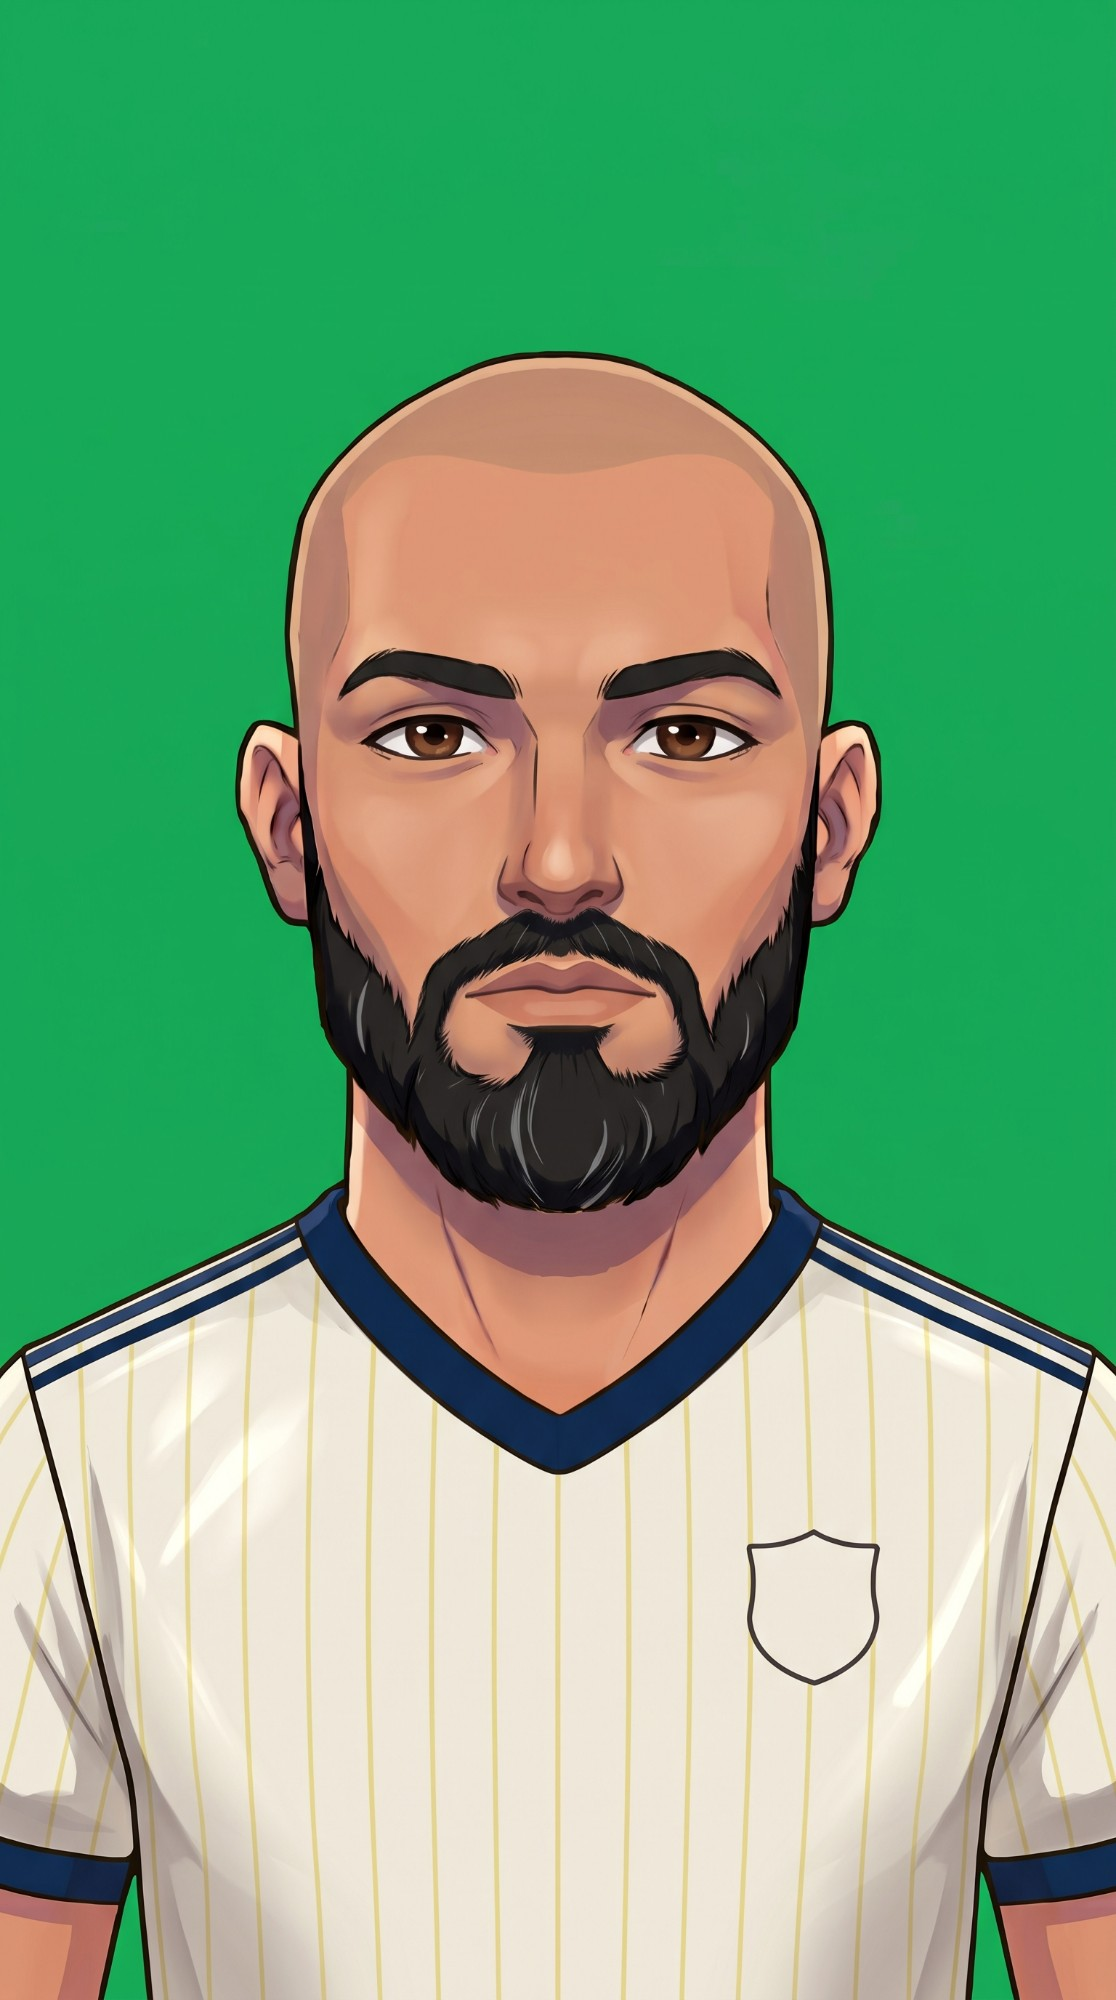
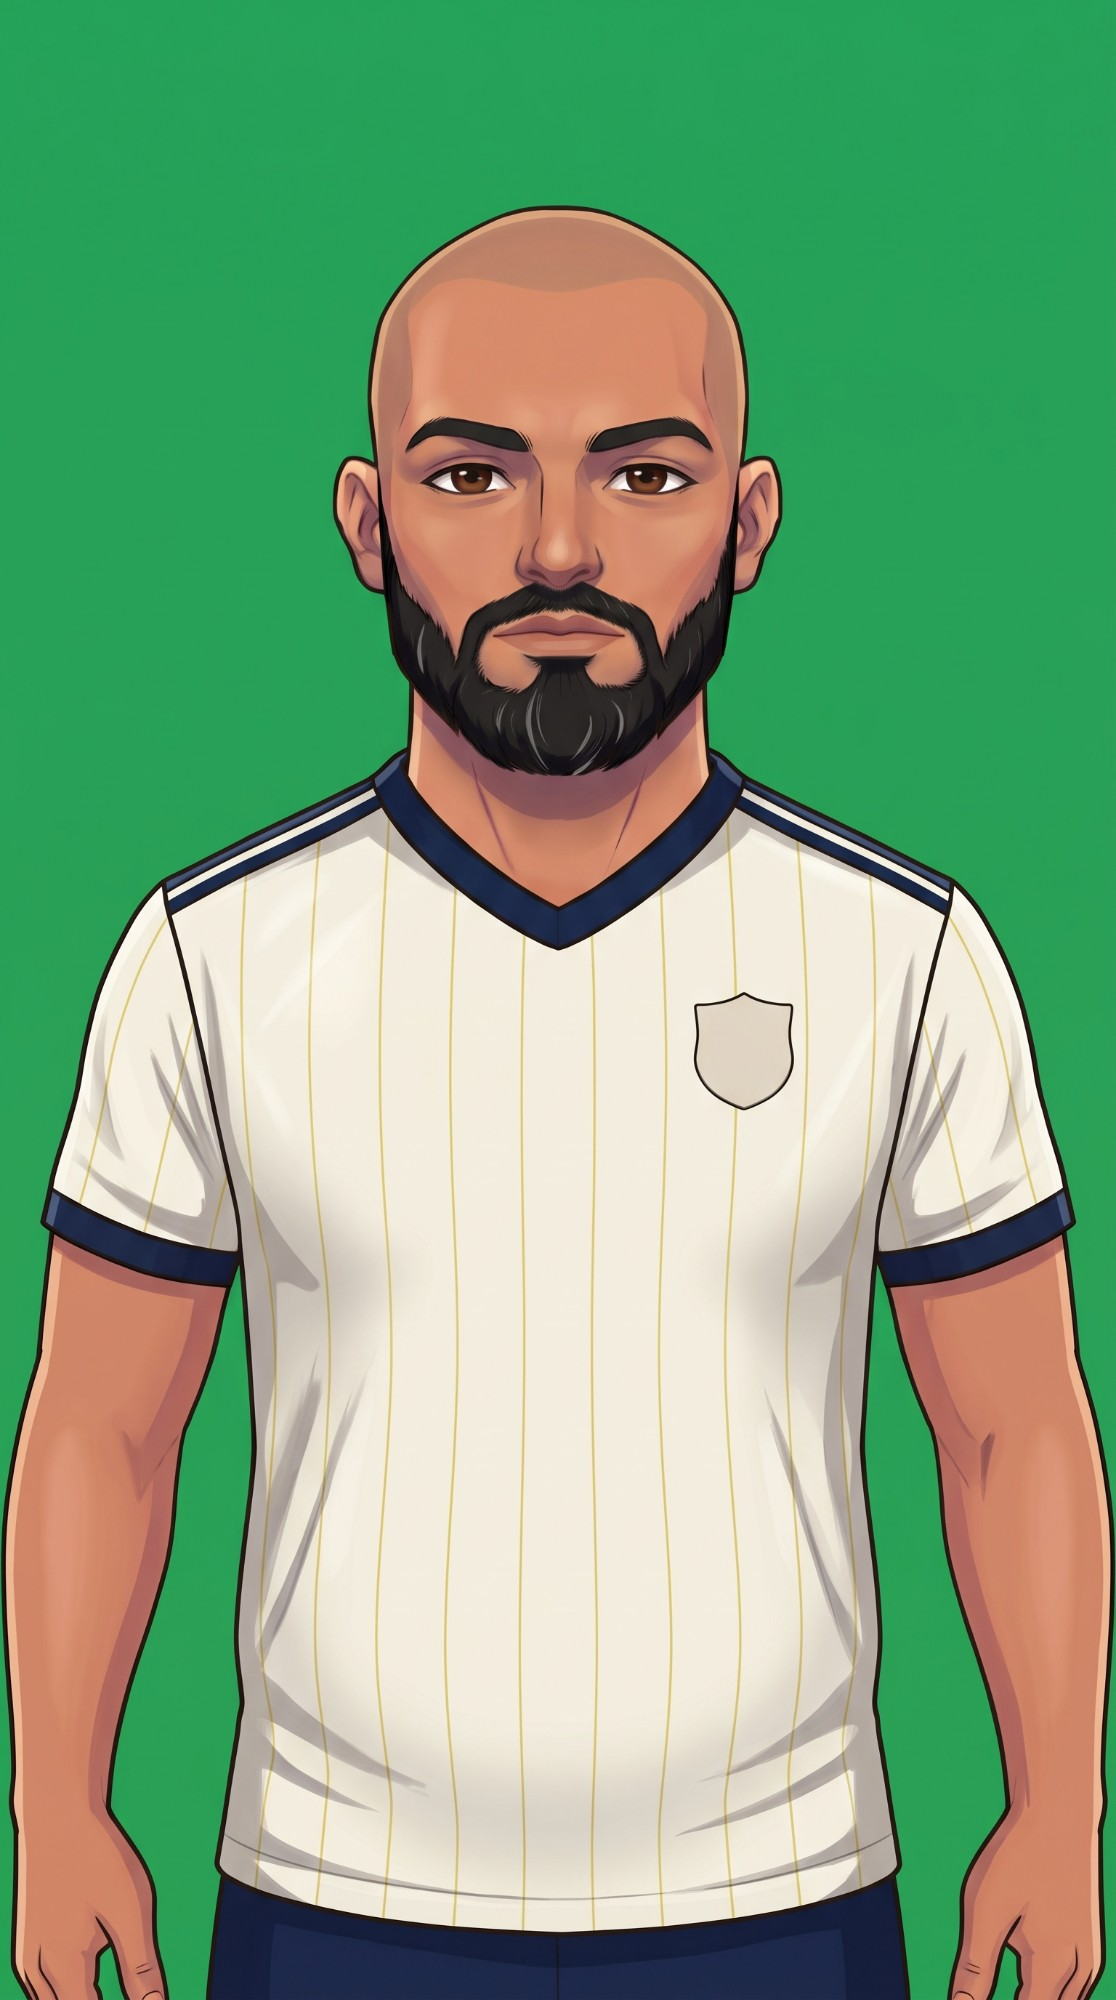
feat: full-arm stocky shirt artwork, collar skin fill
New shirt images show the whole upper body with arms; the base space is
padded to 170px per side and 2020px tall so nothing is cut. Collar
openings re-measured per kit, crest and sponsor repositioned, and a skin
fill strictly inside the collar opening covers head motion there.

diff --git a/js/character.js b/js/character.js
@@ -15,7 +15,8 @@ export const MOOD_LABELS = {
 };
 
 const IMG_W = 768, IMG_H = 1376;   // base coordinate space (the original head artwork)
-const PAD = 130;                   // extra base px on each side so wide shirts/arms fit
+const PAD = 170;                   // extra base px on each side so the arms fit
+const BODY_H = 2020;               // base px: the shirt artwork reaches down to the waist
 const OUT_W = 1080;                // output canvas width; height follows the screen aspect
 const K = OUT_W / (IMG_W + 2 * PAD); // base px -> output px
 const SCALE = 1.25;                // internal oversampling
@@ -40,9 +41,9 @@ const MOOD_OPEN = { happy: 'img/home_happy_open.jpg', sad: 'img/home_sad_open.jp
 // V collar per kit (measured on the aligned shirt): where the collar meets the neck,
 // the V point, and the slope of the inner edge (px sideways per px down)
 const COLLAR = {
-  home:  { top: 858, vy: 966, slope: 1.40 },
-  away:  { top: 858, vy: 966, slope: 1.40 },
-  third: { top: 838, vy: 936, slope: 1.43 },
+  home:  { top: 818, vy: 928, slope: 1.31 },
+  away:  { top: 831, vy: 941, slope: 1.33 },
+  third: { top: 828, vy: 933, slope: 1.39 },
 };
 
 // Neck + chest skin inside the collar: moves with the head, the shirt is drawn over it
@@ -54,24 +55,27 @@ function neckPoly(kit) {
     right.push([x, y]);
     left.push([768 - x, y]);
   }
-  return [[222, 700], [547, 700], [540, 730], [530, 760], ...right, [384, k.vy], ...left.reverse(), [238, 760], [229, 730]];
+  const poly = [[222, 700], [547, 700], [540, 730], [530, 760], ...right, [384, k.vy], ...left.slice().reverse(), [238, 760], [229, 730]];
+  // skin fill strictly inside the collar opening (never visible outside the shirt)
+  const fill = [[246, k.top - 2], [522, k.top - 2], ...right.slice(1), [384, k.vy], ...left.slice(1).reverse()];
+  return { poly, fill };
 }
-const NECK_POLYS = { home: neckPoly('home'), away: neckPoly('away'), third: neckPoly('third') };
+const NECK = { home: neckPoly('home'), away: neckPoly('away'), third: neckPoly('third') };
 
 const G = {
-  pivot: { x: 384, y: 960 },          // base of the neck, rotation pivot
-  headDy: 22,                         // push the whole head+neck unit down (shorter visible neck)
+  pivot: { x: 384, y: 930 },          // base of the neck, rotation pivot
+  headDy: 0,                          // vertical offset of the head+neck unit
   headTop: [[0, 0], [768, 0], [768, 700], [0, 700]],
   bodyTop: 700,
   mouth: { x: 384, y: 690, rx: 74, ry: 46 },
   eyeL: { x: 298, y: 515, rx: 74, ry: 46 },
   eyeR: { x: 468, y: 515, rx: 74, ry: 46 },
   earL: { x: 172, y: 520 }, earR: { x: 598, y: 520 },
-  sponsor: { x: 384, y: 1242, w: 346, h: 108 },
+  sponsor: { x: 384, y: 1257, w: 400, h: 140 },
   crest: {
-    home: { x: 556, y: 1102, w: 104, h: 128 },
-    away: { x: 558, y: 1100, w: 104, h: 128 },
-    third: { x: 566, y: 1064, w: 112, h: 136 },
+    home: { x: 570, y: 1065, w: 108, h: 132 },
+    away: { x: 570, y: 1079, w: 108, h: 132 },
+    third: { x: 567, y: 1072, w: 108, h: 132 },
   },
 };
 
@@ -133,7 +137,7 @@ function alignToBase(keyed) {
   const dx = (BASE_HEAD.earsL + BASE_HEAD.earsR) / 2 - ((best.l + best.r) / 2) * s;
   const dy = BASE_HEAD.earsY - best.y * s;
   const out = document.createElement('canvas');
-  out.width = IMG_W + 2 * PAD; out.height = IMG_H;
+  out.width = IMG_W + 2 * PAD; out.height = BODY_H;
   const ctx = out.getContext('2d');
   ctx.setTransform(s, 0, 0, s, dx + PAD, dy);
   ctx.drawImage(keyed, 0, 0);
@@ -185,6 +189,8 @@ export class Character {
       n++;
       if (onProgress) onProgress(n, names.length);
     }));
+    const px = this.img.home_neutral.getContext('2d').getImageData(384, 905, 1, 1).data;
+    this.neckColor = `rgb(${px[0]},${px[1]},${px[2]})`;
     this.body = {};
     await Promise.all(Object.keys(BODY_FILES).map(async (k) => {
       const im = await loadImage(BODY_FILES[k]);
@@ -239,23 +245,31 @@ export class Character {
     const ctx = this.ctx;
     const yaw = clamp(p.yaw, -1, 1), pitch = clamp(p.pitch, -1, 1), roll = clamp(p.roll, -7, 7);
     const body = this.body[this.kit];
-    const neck = NECK_POLYS[this.kit];
+    const neck = NECK[this.kit].poly;
     const breathe = 1 + 0.004 * Math.sin(p.time * 0.0022);
 
     ctx.setTransform(1, 0, 0, 1, 0, 0);
     ctx.clearRect(0, 0, this.canvas.width, this.canvas.height);
     // base coordinates -> output: scaled by K, padded sideways, anchored at the bottom
-    ctx.setTransform(K * SCALE, 0, 0, K * SCALE, PAD * K * SCALE, (this.outH - IMG_H * K) * SCALE);
+    ctx.setTransform(K * SCALE, 0, 0, K * SCALE, PAD * K * SCALE, (this.outH - BODY_H * K) * SCALE);
 
     // head motion; the shirt follows it partially so the collar opening never gaps much
     const dx = yaw * 9 + p.posX * 0.4;
     const dy = pitch * 7 + p.posY * 0.3 + Math.sin(p.time * 0.0022) * 1.5;
     const bodyTransform = () => {
-      ctx.translate(IMG_W / 2, IMG_H);
+      ctx.translate(IMG_W / 2, BODY_H);
       ctx.scale(1, breathe);
       ctx.rotate(roll * 0.4 * Math.PI / 180);
-      ctx.translate(-IMG_W / 2 + dx * 0.55, -IMG_H + dy * 0.4);
+      ctx.translate(-IMG_W / 2 + dx * 0.55, -BODY_H + dy * 0.4);
     };
+
+    // 0. chest skin inside the collar opening, so head motion shows skin there, not green
+    ctx.save();
+    bodyTransform();
+    ctx.fillStyle = this.neckColor;
+    this.poly(ctx, NECK[this.kit].fill);
+    ctx.fill();
+    ctx.restore();
 
     // 1. head + neck unit
     ctx.save();
@@ -296,7 +310,7 @@ export class Character {
     ctx.save();
     bodyTransform();
     ctx.beginPath();
-    ctx.rect(-PAD, G.bodyTop, IMG_W + 2 * PAD, IMG_H - G.bodyTop);
+    ctx.rect(-PAD, G.bodyTop, IMG_W + 2 * PAD, BODY_H - G.bodyTop);
     this.poly(ctx, neck, false);
     ctx.clip('evenodd');
     ctx.drawImage(body, -PAD, 0);
@@ -361,7 +375,7 @@ export class Character {
   drawSponsor(ctx) {
     const s = G.sponsor;
     ctx.save();
-    ctx.font = 'italic 900 64px "Arial Black", "Segoe UI Black", Arial, sans-serif';
+    ctx.font = 'italic 900 78px "Arial Black", "Segoe UI Black", Arial, sans-serif';
     ctx.textAlign = 'center';
     ctx.textBaseline = 'middle';
     const text = 'BilalAbi';

diff --git a/README.md b/README.md
@@ -44,7 +44,7 @@ Die Kamera funktioniert nur über HTTPS oder `localhost`.
 - `index.html` – Oberfläche
 - `css/style.css` – Layout
 - `js/character.js` – Canvas-Charakter aus den Bildern in `img/`, Trikots, Stimmungen, Sonnenbrille
-- `img/` – Charakter-Bilder (768x1376, grüner Hintergrund)
+- `img/` – Charakter-Bilder: Kopf-Varianten (768x1376) und Trikots mit Armen (`*_body.jpg`, beliebige Auflösung, werden am Kopf ausgerichtet)
 - `js/tracker.js` – MediaPipe-Tracking und Kalibrierung
 - `js/app.js` – Steuerung, Glättung, Aufnahme-Modus
 
